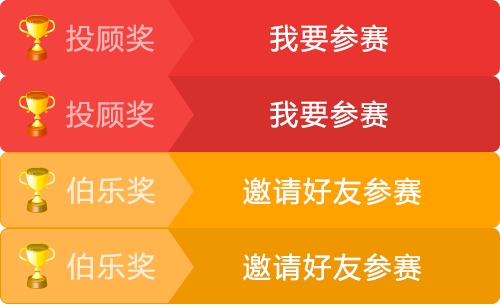
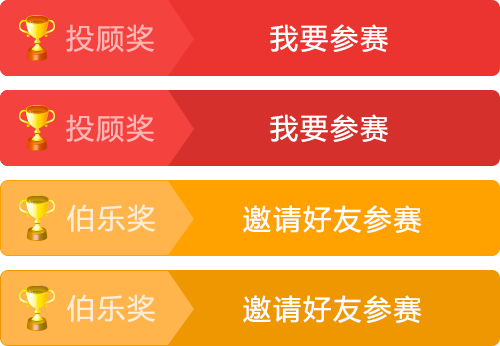
常规提交

diff --git a/static/fachina/js/public.js b/static/fachina/js/public.js
@@ -21,7 +21,7 @@
 
   //需要配置的地方
   var devHost = 'http://192.168.1.19',
-    development = true; // 是否开发模式，开发时配置true，上线时为false
+    development = false; // 是否开发模式，开发时配置true，上线时为false
 
   //apis
   var apis = {
@@ -102,7 +102,7 @@
     fiveBets: (development ? devHost : host) + '/g_adviser_api/get_five_bets',
 
     //获取微信签名
-    fetchJssdk: (development ? devHost : host) + '/g_adviser_api/fetch_js_sdk_signature',
+    fetchJssdk: (development ? devHost : host) + '/gs_api/fetch_js_sdk_signature',
 
     //广告
     advert: (development ? devHost : host) + '/ad_api/fetch_ad_link_list_noapp'
@@ -473,10 +473,11 @@
       var options = {};
 
       var params = {
-        url: pageUrl
+        url: pageUrl,
+        src: 'GA'
       };
       /*获取签名*/
-      promotion.ajax(apis.fetchJssdk, params, function(data) {
+      J_app.ajaxa(apis.fetchJssdk, params, function(data) {
         options = {
           debug: false,
           appId: data.result.appId,
@@ -491,7 +492,7 @@
         };
         /*调用微信分享方法*/
         niuWebShare(options);
-      }, promotion.ajaxFail, {});
+      }, J_app.ajaxFail, {});
 
       /*微信分享样式自定义方法*/
       function niuWebShare(options) {
@@ -590,11 +591,22 @@
             J_app.loading(false);
 
             if (data.code === 0) {
-              J_app.alert('投票成功');
-              numberBox.html(++number);
 
               // 如果用户没关注微信，弹出二维码
+              if(isWeixin){
+                if(data.result.subscribe === 0){
+                  $('body').append(template('common/qszg'));
+                  $('.dialog-master').on('click', function(){
+                    $(this).closest('.dialog').remove();
+                  });
+                }else{
+                  J_app.alert('投票成功');
+                }
+              } else {
+                J_app.alert('投票成功');
+              }
 
+              numberBox.html(++number);
               if(data.result.voteCount === 0){
                 $('.J-vote').removeClass('btn-red J-vote').addClass('btn-orange J-invite').html('帮TA拉票');
               } else{
@@ -749,10 +761,15 @@
     },
 
     // 判断用户是否登录
-    checkSign: function(callback) {
+    checkSign: function(callback,tar) {
       if (!J_app.getCookie('id')) {
         if(isWeixin){
-          var src = window.location.href.match(/\/\w+.html/)[0].slice(1,-5);
+          var src = '';
+          if(tar){
+            src = tar;
+          } else{
+            src = window.location.href.match(/\/\w+.html/)[0].slice(1,-5);
+          }
           window.location.href = links.weixin + src;
         } else if(isYiqiniu){
           window.location.href = './index.html';
@@ -778,7 +795,7 @@
       } else {
         if(!J_app.getCookie('status') || !J_app.getCookie('type')){
           // 重新请求用户数据并存在cookie
-
+          J_app.userInfo();
         } else{
           callback();
         }
@@ -809,7 +826,6 @@
       var id = data.result.cId,
           status = data.result.joinStatus,
           type = data.result.adviserStatus;
-
 
       // 存储用户cId
       if(id){
@@ -848,15 +864,20 @@
     },
 
     // 导航控制
-    navControl: function(link) {
+    navControl: function(link,tar) {
+
+      var target = tar;
 
       if(!link){
         return;
       }
+      if(!tar) {
+        target = 'index';
+      }
 
       J_app.checkSign(function(){
         window.location.href = link;
-      });
+      }, target);
     }
   };
 
@@ -975,6 +996,7 @@
     };
   })(jQuery);
 
+
   // 使用rem初始化页面,自执行
   (function() {
     var page = this;
@@ -1039,7 +1061,7 @@
     });
   })(jQuery);
 
-  //回到顶部
+  // 回到顶部
   (function($) {
     $(window).scroll(function() {
       if ($(this).scrollTop() > 400) {
@@ -1055,6 +1077,6 @@
     });
   })(jQuery);
 
-  //抛出对象
+  // 抛出对象
   factory && (global.J_app = J_app);
 });

diff --git a/static/fachina/js/panel_buy.js b/static/fachina/js/panel_buy.js
@@ -232,7 +232,10 @@ handler.getFiveBets = function() {
       handler.limitdown = data.result.limitdown;
       handler.limitup = data.result.limitup;
 
-      $('#stkPrice').val(data.result.price);
+      if($('#stkPrice').data('status') !== 'Y'){
+        $('#stkPrice').val(data.result.price).data('status', 'Y');
+      }
+
       handler.ableQuantity();
 
       // 显示五档
@@ -325,7 +328,9 @@ handler.priceOper = function() {
   });
 
   // 手动填写价格
-  $('#stkPrice').on('blur', handler.ableQuantity);
+  $('#stkPrice').on('blur', function(){
+    handler.ableQuantity();
+  });
 };
 
 // 模拟长按事件
@@ -373,8 +378,8 @@ handler.clickSubmitBtn = function() {
     var data = {
       name : $('#searchInput').data('name'),
       asset : $('#searchInput').data('code'),
-      number : $('#stkQuantity').val(),
-      tPrice : $('#stkPrice').val()
+      number : $.trim($('#stkQuantity').val()),
+      tPrice : $.trim($('#stkPrice').val())
     };
 
     if(!data.asset){

diff --git a/static/fachina/js/panel_sell.js b/static/fachina/js/panel_sell.js
@@ -98,7 +98,9 @@ handler.getFiveBets = function() {
       handler.limitdown = data.result.limitdown;
       handler.limitup = data.result.limitup;
 
-      $('#stkPrice').val(data.result.price);
+      if($('#stkPrice').data('status') !== 'Y'){
+        $('#stkPrice').val(data.result.price).data('status', 'Y');
+      }
 
       // 显示五档
       var ask = data.result.ask,
@@ -215,8 +217,8 @@ handler.clickSubmitBtn = function() {
     var data = {
       name : $('#searchInput').data('name'),
       asset : $('#searchInput').data('code'),
-      number : $('#stkQuantity').val(),
-      tPrice : $('#stkPrice').val()
+      number : $.trim($('#stkQuantity').val()),
+      tPrice : $.trim($('#stkPrice').val())
     };
 
     if(!data.asset){

diff --git a/html/fachina/home.html b/html/fachina/home.html
@@ -23,10 +23,10 @@
         <a href="./index.html" class="nav-link">大赛首页</a>
       </li>
       <li class="ui-col">
-        <a href="javascript:J_app.navControl('./home.html');" class="nav-link active">个人中心</a>
+        <a href="javascript:J_app.navControl('./home.html', 'home');" class="nav-link active">个人中心</a>
       </li>
       <li class="ui-col">
-        <a href="javascript:J_app.navControl('./trade.html');" class="nav-link">模拟交易</a>
+        <a href="javascript:J_app.navControl('./trade.html', 'trade');" class="nav-link">模拟交易</a>
       </li>
       <li class="ui-col">
         <a href="./ranking.html" class="nav-link">排行榜</a>

diff --git a/html/fachina/trade.html b/html/fachina/trade.html
@@ -47,10 +47,10 @@
         <a href="./index.html" class="nav-link">大赛首页</a>
       </li>
       <li class="ui-col">
-        <a href="javascript:J_app.navControl('./home.html');" class="nav-link">个人中心</a>
+        <a href="javascript:J_app.navControl('./home.html', 'home');" class="nav-link">个人中心</a>
       </li>
       <li class="ui-col">
-        <a href="javascript:J_app.navControl('./trade.html');" class="nav-link active">模拟交易</a>
+        <a href="javascript:J_app.navControl('./trade.html', 'trade');" class="nav-link active">模拟交易</a>
       </li>
       <li class="ui-col">
         <a href="./ranking.html" class="nav-link">排行榜</a>

diff --git a/html/fachina/index.html b/html/fachina/index.html
@@ -35,10 +35,10 @@
         <a href="./index.html" class="nav-link active">大赛首页</a>
       </li>
       <li class="ui-col">
-        <a href="javascript:J_app.navControl('./home.html');" class="nav-link">个人中心</a>
+        <a href="javascript:J_app.navControl('./home.html', 'home');" class="nav-link">个人中心</a>
       </li>
       <li class="ui-col">
-        <a href="javascript:J_app.navControl('./trade.html');" class="nav-link">模拟交易</a>
+        <a href="javascript:J_app.navControl('./trade.html', 'trade');" class="nav-link">模拟交易</a>
       </li>
       <li class="ui-col">
         <a href="./ranking.html" class="nav-link">排行榜</a>

diff --git a/html/fachina/ranking.html b/html/fachina/ranking.html
@@ -39,10 +39,10 @@
         <a href="./index.html" class="nav-link">大赛首页</a>
       </li>
       <li class="ui-col">
-        <a href="javascript:J_app.navControl('./home.html');" class="nav-link">个人中心</a>
+        <a href="javascript:J_app.navControl('./home.html', 'home');" class="nav-link">个人中心</a>
       </li>
       <li class="ui-col">
-        <a href="javascript:J_app.navControl('./trade.html');" class="nav-link">模拟交易</a>
+        <a href="javascript:J_app.navControl('./trade.html', 'trade');" class="nav-link">模拟交易</a>
       </li>
       <li class="ui-col">
         <a href="./ranking.html" class="nav-link active">排行榜</a>

diff --git a/static/fachina/scss/channel/index.scss b/static/fachina/scss/channel/index.scss
@@ -115,14 +115,14 @@
   background-position: 0 0;
 
   &.active {
-    background-position: 0 pxToRem(-38px);
+    background-position: 0 pxToRem(-45px);
   }
 }
 .index-invite-event {
-  background-position: 0 pxToRem(-76px);
+  background-position: 0 pxToRem(-90px);
 
   &.active {
-    background-position: 0 pxToRem(-114px);
+    background-position: 0 pxToRem(-135px);
   }
 }
 .index-to-rules {
@@ -201,6 +201,7 @@
     font-size: pxToRem(14px);
     text-align: center;
     border: 1px solid $border-color;
+    overflow: hidden;
 
     .nav-link,
     a {

diff --git a/html/fachina/accredit.html b/html/fachina/accredit.html
@@ -8,10 +8,10 @@
   <!-- script -->
   @@include('_scripts.html')
   <script>
-    var cId = J_app.getUrlParam('cid');
+    var cId = J_app.getUrlParam('cId');
     var soure = J_app.getUrlParam('src');
 
-    $.cookie("fachinaId", cId, {expires:365,path:'/'});
+    J_app.setCookie('id', cId);
     window.location.href = soure ? soure + '.html' : './index.html';
   </script>
 </body>

diff --git a/static/fachina/js/panel_cancel.js b/static/fachina/js/panel_cancel.js
@@ -93,7 +93,7 @@ handler.cancelSubmit = function(data) {
 
   var params = {};
   params['ptfTransId'] = data.tId;
-  params['stkCode'] = data.code;
+  params['stkCode'] = data.code.substr(0,6);
   params['ordSeq'] = data.seq;
   params['exchType'] = getExchType(data.code);
 

diff --git a/static/fachina/scss/common/layout.scss b/static/fachina/scss/common/layout.scss
@@ -229,7 +229,7 @@ body {
 
   input {
     padding: 0 pxToRem(5px);
-    width: pxToRem(195px);
+    width: pxToRem(194px);
     height: pxToRem(30px);
     line-height: pxToRem(30px);
     border: 1px solid $border-color;

diff --git a/static/fachina/scss/common/font.scss b/static/fachina/scss/common/font.scss
@@ -36,3 +36,12 @@
 .text-black {
   color: $black !important;
 }
+.text-white {
+  color: $white !important;
+}
+.text-yellow {
+  color: $yellow !important;
+}
+.text-orange {
+  color: $orange !important;
+}
